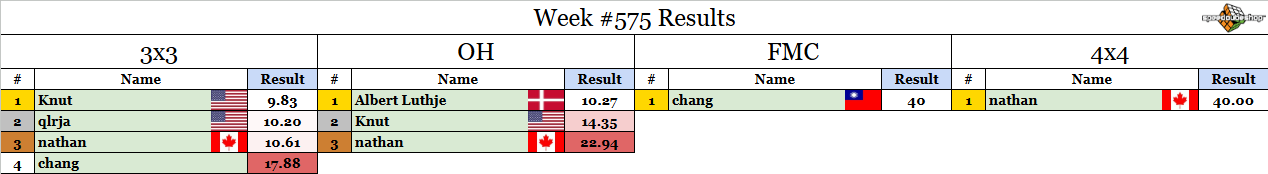
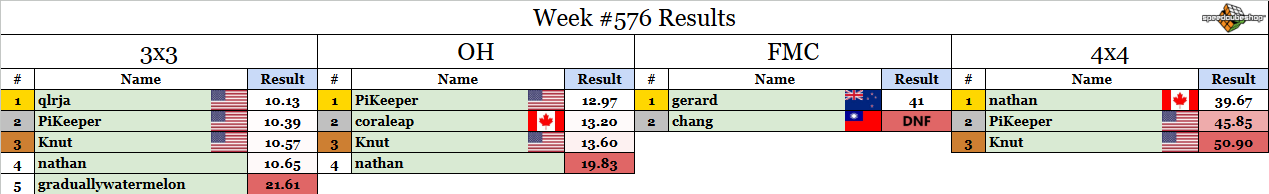
weekly comp update

diff --git a/src/weeklycomp/post.md b/src/weeklycomp/post.md
@@ -1,10 +1,10 @@
-## Weekly Competition #576 
+## Weekly Competition #577 
  
 Sponsored by SpeedCubeShop
 Shop here: [speedcubeshop.com/rouxcomp](https://speedcubeshop.com/rouxcomp)
 Use code ROUX for 5% off
 
-One competitor will be selected at random to receive a $5 SCS gift card! Congrats to last week's winner by a random draw: **qlrja**. DM me for the prize. 
+One competitor will be selected at random to receive a $5 SCS gift card! Congrats to last week's winner by a random draw: **PiKeeper**. DM me for the prize. 
  
 Check whether or not you participated this week yet at [https://bit.ly/RMSWeeklyCompSummary](https://bit.ly/RMSWeeklyCompSummary)  
  
@@ -18,28 +18,30 @@ Check whether or not you participated this week yet at [https://bit.ly/RMSWeekly
  7. The comp runs until Sunday 5pm Eastern time (more or less). Enter your times using the forms links below. 
  
 ### 3x3: [Submission Form](https://forms.gle/H5xoCWvGKnZ92fQt8) 
- 1. R2 D2 R' D2 U2 F2 U2 L U2 L2 R' B' R2 D' R2 B2 U2 R' B' R 
- 2. U B D2 B' U2 L2 B L2 R2 D2 B' D2 B R D' L' U2 L' B' D' R2 
- 3. U R2 F2 L2 F2 U' R2 D U B2 F2 L' R B U' L2 R B2 D' U R 
- 4. R2 B2 D' B2 F2 U F2 U R2 U2 L2 B' R U' B2 R' U F2 L U' R 
- 5. F' R2 F R2 B R2 U2 L2 R D2 U' L' D' B' D2 B' L B' 
+ 1. F L U2 F' U2 F L2 B' R2 U2 R2 B U2 F' D' B2 R' U B' D' L 
+ 2. U2 R2 D2 L2 U2 B F2 L2 B2 D2 F2 L' B2 F' L D' F U' L' R' B2 
+ 3. B2 L2 D' R2 F2 U R2 B2 U L2 D' F U L D2 L R D B' D2 L 
+ 4. L D' F' R' D2 R2 B R L2 F2 D R2 U2 B2 U' B2 R2 D2 L2 D 
+ 5. L2 F' L2 F' L2 D2 B U2 R2 U2 L' U F' R' D B' L' F 
  
 ### OH: [Submission Form](https://forms.gle/UgRLW3K1d5KkMGfM9) 
- 1. L2 U' B2 R2 D L2 U' F2 D2 B2 D B2 R' B2 D F' D F2 L' B 
- 2. D L' D F2 L2 D' F2 D B2 U2 B2 U' B2 U F' D' U L' D' L' U2 
- 3. R' L2 B2 L2 D2 L2 D' B2 D F2 D L2 F2 B' D2 R F2 L' D' B' L 
- 4. F B2 L2 D' L2 B2 D' R2 B2 R2 U' R B2 F U B' D2 F L2 R' 
- 5. U2 R' L' F' L B' D2 B D' B R2 F L2 U2 F2 R2 F' R2 L2 
+ 1. D' L2 R2 B2 U2 R2 D2 U R2 F2 U' L' D' U' B' F2 D2 L' R B' L' 
+ 2. D U L2 D R2 U R2 U' F2 L2 U' R2 L' F U' L D' B L2 D2 
+ 3. R2 D U' L2 D B2 D' L2 B2 L2 F R' U2 B D' U L' F2 R2 F 
+ 4. L B2 L' U2 R' D2 U2 L B2 F2 R2 U' L2 F U B' F' R' B F' 
+ 5. L' B' D2 U2 L2 U2 F R2 F' L2 F L2 D R F2 U' R2 B' L' D2 
  
 ### FMC: [Submission Form](https://forms.gle/1P9VUgZmA1pibwvL9) 
- 1. R' U' F L2 D2 L D R' F B2 R' B U2 D2 L D2 R' B2 R2 F2 L' F2 L R' U' F 
+ 1. R' U' F U' D B R D F' B D R U2 F2 R F2 R U2 F2 B2 L B2 L B R' U' F 
  
 ### 4x4: [Submission Form](https://forms.gle/bHNjncvEcPvFWBP2A) 
- 1. F' L2 U R2 L2 D L2 B2 D L2 B2 D L2 F U L' B U F2 U B Fw2 D B2 R Rw2 Fw2 L' D F2 Rw2 D2 Fw' R2 D Rw2 B R D' Rw U D' B Uw' B 
- 2. F L' D2 L2 U2 L2 U B2 D' L2 U F2 R2 B' U2 R F2 B2 U F L2 Uw2 B R' Uw2 R B' Fw2 L' Uw2 L2 Uw2 F B' Uw' B2 Fw2 L' F2 D' Fw' D Rw Fw' U Fw' R 
- 3. F' U2 R2 L2 B2 D R2 U2 D' B2 R2 D2 R' F R2 B' L' U F' R2 U' Rw2 B R2 D Rw2 D F' U' Rw2 F2 Rw2 F D Rw' U2 L' Uw2 F2 Fw Rw' U2 B2 Fw' R' L 
- 4. R' L B R' D F' L2 D' R' B D2 R2 B D2 R2 B' L2 F2 R2 F2 Fw2 D Uw2 Rw2 U R2 B R2 F2 U' Rw2 U2 F' Rw' F D' L2 Fw L Rw Fw' L2 Fw' Rw' 
- 5. B' L D2 L2 D' R2 U' F2 B2 U' R2 D' L U R B D2 L D' B' Fw2 D R Rw2 D' F2 R D2 R2 Fw2 D L U' Fw U' Rw2 Uw2 F2 L U' Uw' B Rw2 Fw' Rw2 
+ 1. U' F2 L F R L2 B D2 B2 U R2 F2 R2 U2 L2 B2 L' D2 Rw2 D Rw2 Uw2 F2 L2 Fw2 U' B2 R' U R Uw2 Fw' L D2 L F2 Rw' U' D' F2 B' Uw' Fw2 R' 
+ 2. D2 R2 D' L2 U B2 U F2 B2 U L2 D' L' D R F U2 F' D' F2 Rw2 D Fw2 Rw2 F' D2 B' D2 F' U Uw2 F R2 Rw' D' Rw2 U' B' Uw R Fw D R' U R' 
+ 3. D2 F' B2 R2 U B2 D2 F2 B2 D R2 U2 R2 F' D' R' D F2 U2 F' U Uw2 Fw2 U' R' D2 Uw2 Rw2 B2 R' D' B2 U' Fw' R B D2 B' Rw' B U Uw' Rw' B2 Uw' F2 
+ 4. F D R D' L' F2 D2 F L2 B2 U2 L' B2 R' F2 L D2 R F2 R' Rw2 U' D2 Fw2 L' U Uw2 R2 Uw2 F2 L' F2 L' B D2 Uw2 Fw' Rw' Uw' B L2 Rw U Uw2 R2 
+ 5. U' R2 L2 B2 D R2 D' B2 D2 F2 B' U2 R' D2 L2 B' U' R U' D Fw2 U' R F2 R2 Uw2 Rw2 U R' F2 L2 D2 Fw L2 B Fw2 Uw Rw' D L D Rw' Fw' R' 
  
 ### Winning FMC solutions from last week: 
- 1. chang, 40 moves: [SOLUTION](https://bit.ly/4lNdBZZ)
+ 1. gerard, 41 moves: [SOLUTION](https://bit.ly/4tiVPR1)
+ 2. chang, DNF: [SOLUTION](https://bit.ly/4v1p3Wa)
+ 
